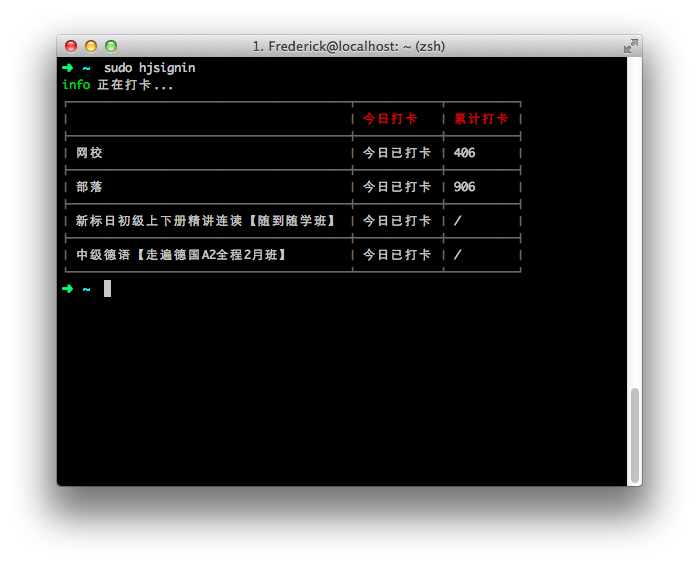
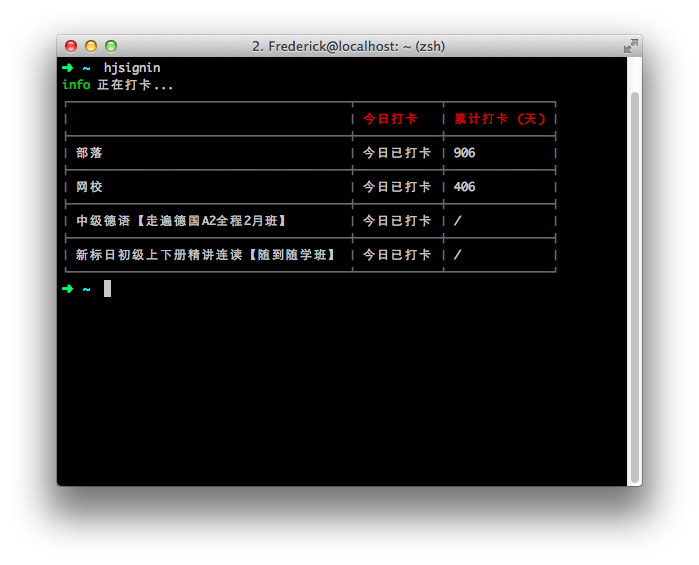
Update screenshot

diff --git a/lib/signin.js b/lib/signin.js
@@ -73,7 +73,7 @@ function takeCard() {
 
     generateCardUrls(cookie, function (urls) {
         var table = new Table({
-            head: ['', '今日打卡', '累计打卡']
+            head: ['', '今日打卡', '累计打卡 (天)']
         });
 
         log.info('', '正在打卡...');
